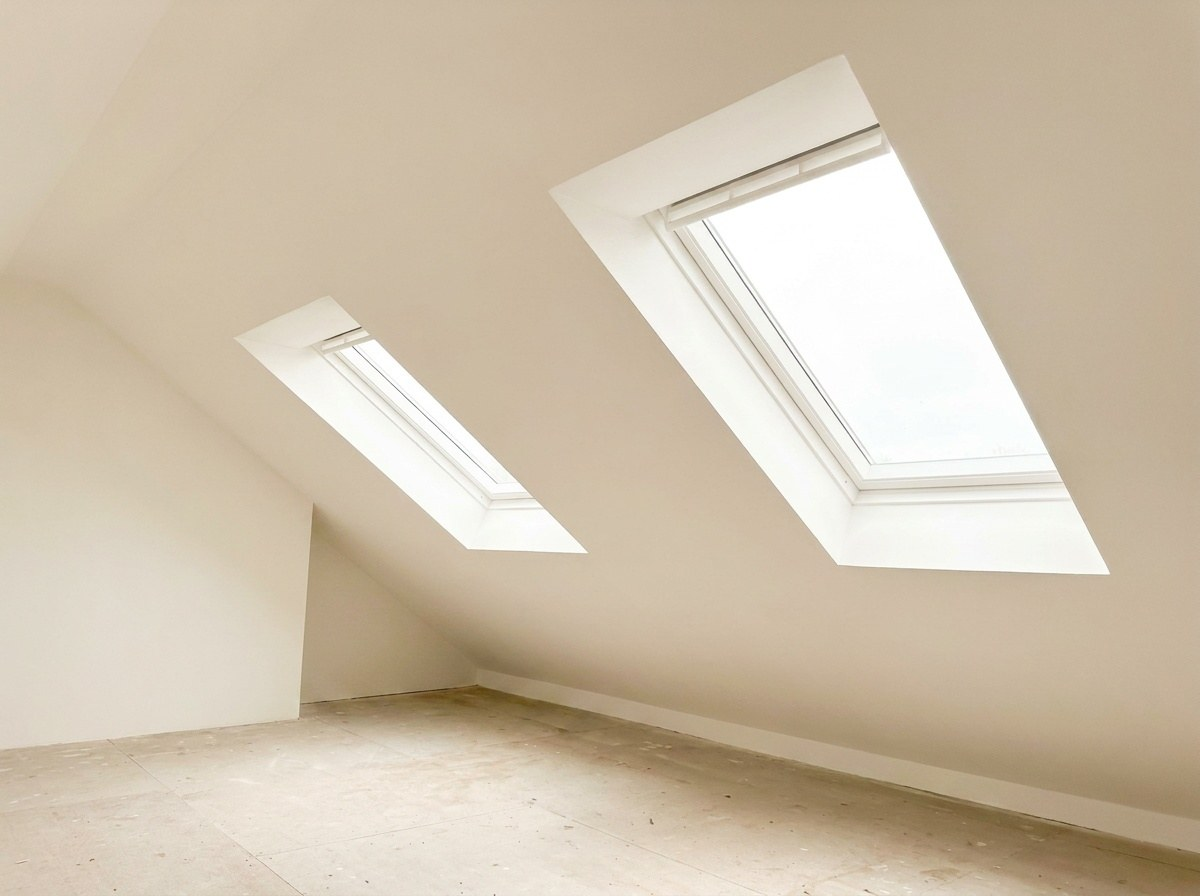
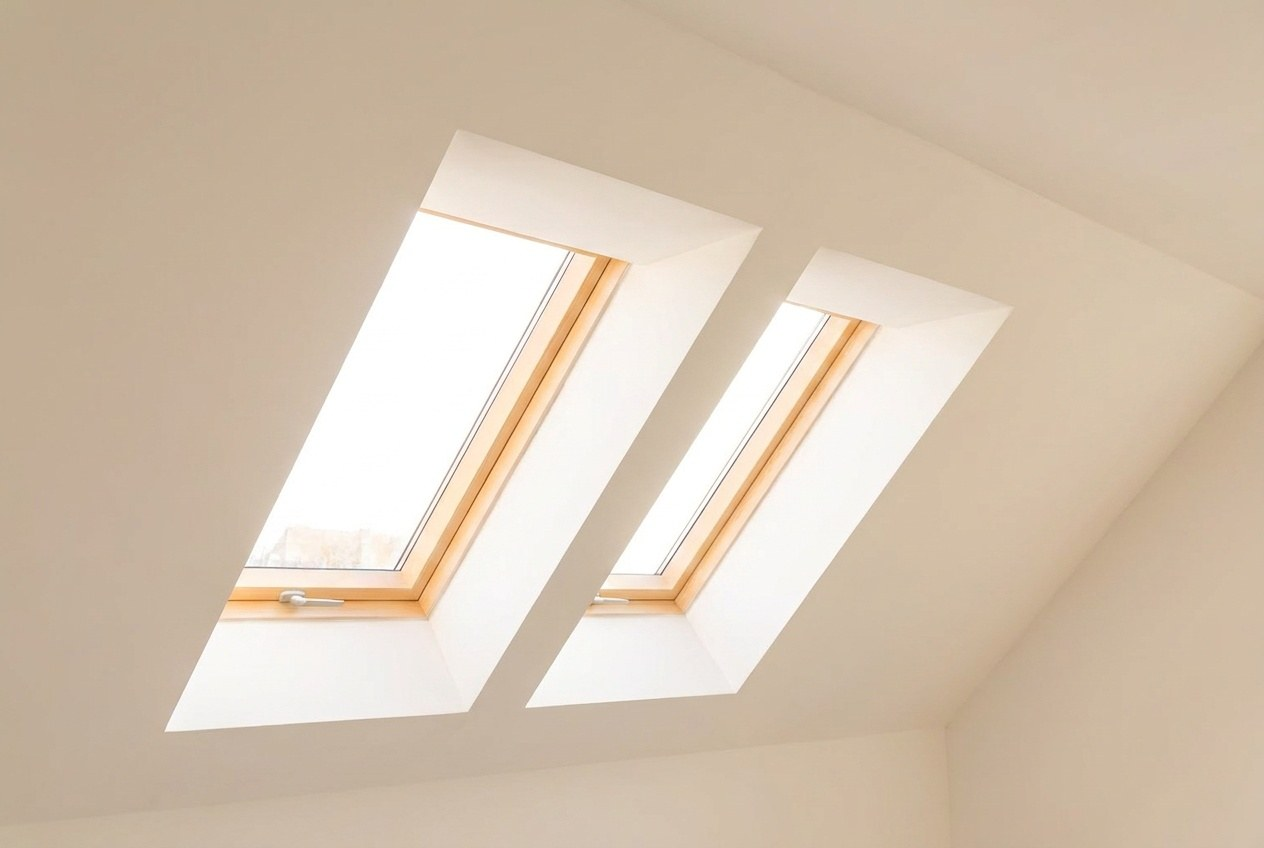
Dakisolatie-galerij = 5 echte realisaties: binnen (jouw zolderfoto -> gyproc -> gestuct) + buiten/sarking (jouw dakfoto copyright-veilig -> afgewerkt met zwarte Koramic pannen)

diff --git a/src/pages/abbouw/lp/LpDienst.tsx b/src/pages/abbouw/lp/LpDienst.tsx
@@ -44,6 +44,8 @@ import imgIsol2 from '@/assets/dak/lp-isol-2.jpg';
 import imgIsol3 from '@/assets/dak/lp-isol-3.jpg';
 import imgIsolGyproc from '@/assets/dak/lp-isol-gyproc.jpg';
 import imgIsolGestuct from '@/assets/dak/lp-isol-gestuct.jpg';
+import imgIsolSarking from '@/assets/dak/lp-isol-sarking.jpg';
+import imgIsolKoramic from '@/assets/dak/lp-isol-koramic.jpg';
 import imgPdak1 from '@/assets/dak/lp-platdak-1.jpg';
 import imgPdak2 from '@/assets/dak/lp-platdak-2.jpg';
 import imgPdak3 from '@/assets/dak/lp-platdak-3.jpg';
@@ -275,7 +277,7 @@ const DIENSTEN: Record<string, Dienst> = {
       ['Luchtdicht afwerken', 'Correct dampscherm en aansluitingen, zodat er geen condens of koudebrug ontstaat.'],
     ],
     whatImg: imgIsol2,
-    gallery: [imgIsol2, imgIsolGyproc, imgIsolGestuct],
+    gallery: [imgIsol2, imgIsolGyproc, imgIsolGestuct, imgIsolSarking, imgIsolKoramic],
     reviews: [
       { text: '"Dak vernieuwd met sarkingisolatie in één beweging. De zolder is nu een volwaardige kamer, en de verwarming staat merkbaar lager."', name: 'Hilde Declercq', role: 'Sarkingisolatie' },
       { text: '"Eerlijk advies over de isolatiewaarde, geen overdreven dikte verkocht. Vaste prijs vooraf, factuur klopte. Nette ploeg."', name: 'Wim De Backer', role: 'Dakisolatie' },